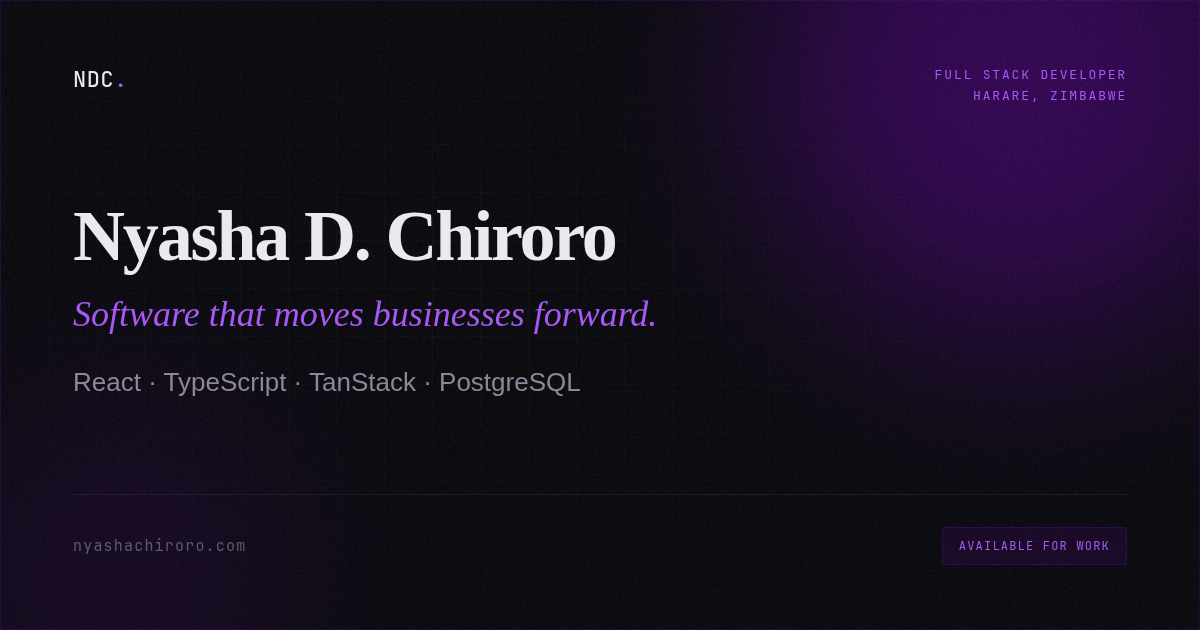
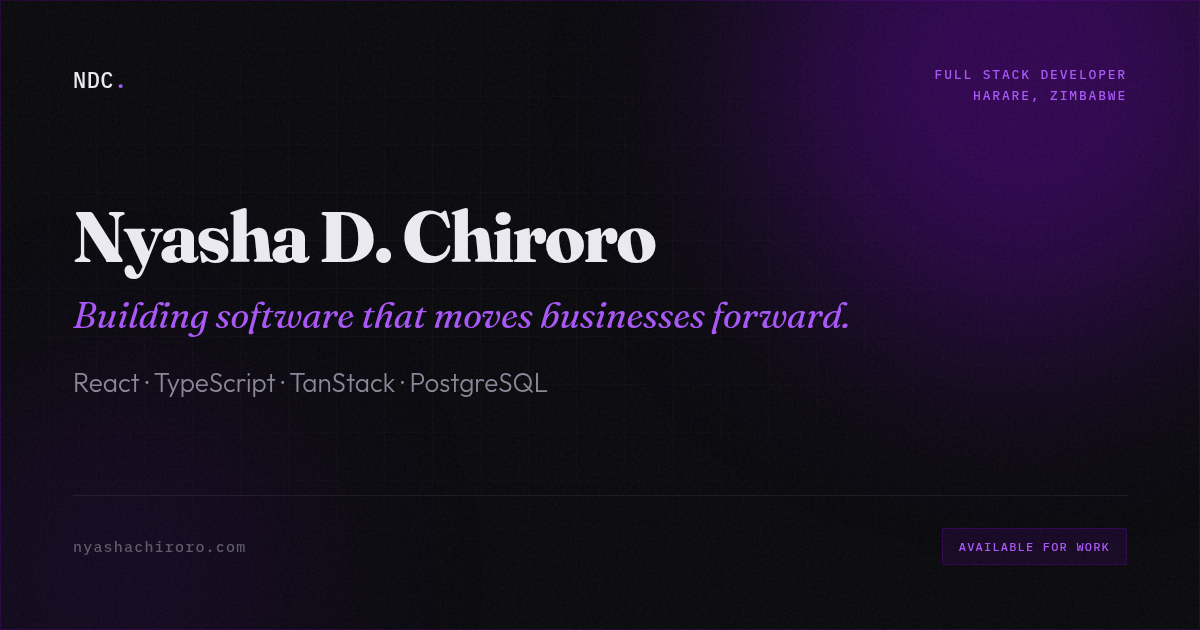
Fix social previews for WhatsApp with a compressed OG image.
Point Open Graph and Twitter meta tags at og-image.jpg (~60 KB), add secure_url, use summary_large_image card, and update OG tagline to "Building software that moves businesses forward."

diff --git a/index.html b/index.html
@@ -18,17 +18,18 @@
   <meta property="og:description" content="Full stack developer shipping production software for Africa's logistics and mobility platforms. First Class CS graduate. Based in Harare, Zimbabwe. Available for work.">
   <meta property="og:url" content="https://nyashachiroro.com/">
   <meta property="og:locale" content="en_ZW">
-  <meta property="og:image" content="https://nyashachiroro.com/og-image.png">
-  <meta property="og:image:type" content="image/png">
+  <meta property="og:image" content="https://nyashachiroro.com/og-image.jpg">
+  <meta property="og:image:secure_url" content="https://nyashachiroro.com/og-image.jpg">
+  <meta property="og:image:type" content="image/jpeg">
   <meta property="og:image:width" content="1200">
   <meta property="og:image:height" content="630">
   <meta property="og:image:alt" content="Nyasha D. Chiroro — Full Stack Developer portfolio">
 
   <!-- Twitter -->
-  <meta name="twitter:card" content="summary">
+  <meta name="twitter:card" content="summary_large_image">
   <meta name="twitter:title" content="Nyasha D. Chiroro — Full Stack Developer">
   <meta name="twitter:description" content="Full stack developer shipping production software for logistics &amp; mobility in Zimbabwe. React, TypeScript, TanStack, PostgreSQL. Available for work.">
-  <meta name="twitter:image" content="https://nyashachiroro.com/og-image.png">
+  <meta name="twitter:image" content="https://nyashachiroro.com/og-image.jpg">
   <meta name="twitter:image:alt" content="Nyasha D. Chiroro — Full Stack Developer portfolio">
 
   <script type="application/ld+json">

diff --git a/og.html b/og.html
@@ -170,7 +170,7 @@
 
     <div class="main">
       <h1 class="name">Nyasha D. Chiroro</h1>
-      <p class="tagline">Software that moves businesses forward.</p>
+      <p class="tagline">Building software that moves businesses forward.</p>
       <p class="role">React · TypeScript · TanStack · PostgreSQL</p>
     </div>
 

diff --git a/README.md b/README.md
@@ -25,8 +25,8 @@ npx serve . -l 8765
 | File | Description |
 |------|-------------|
 | `index.html` | Portfolio page |
-| `og-image.png` | Social preview image (1200×630) |
-| `og.html` | Source template to regenerate `og-image.png` |
+| `og-image.jpg` | Social preview image for WhatsApp, etc. (1200×630, ~60 KB) |
+| `og.html` | Source template to regenerate the OG image |
 | `cv.pdf` | Downloadable CV |
 | `cv.md` | CV source (markdown) |
 
@@ -36,7 +36,10 @@ Edit `og.html`, then:
 
 ```bash
 chromium --headless=new --disable-gpu --hide-scrollbars --window-size=1200,630 --screenshot=og-image.png "file://$(pwd)/og.html"
+magick og-image.png -strip -quality 82 og-image.jpg
 ```
+
+Social meta tags point to `og-image.jpg` (smaller file — WhatsApp often fails on 700 KB+ PNGs).
 
 ## Contact
 
